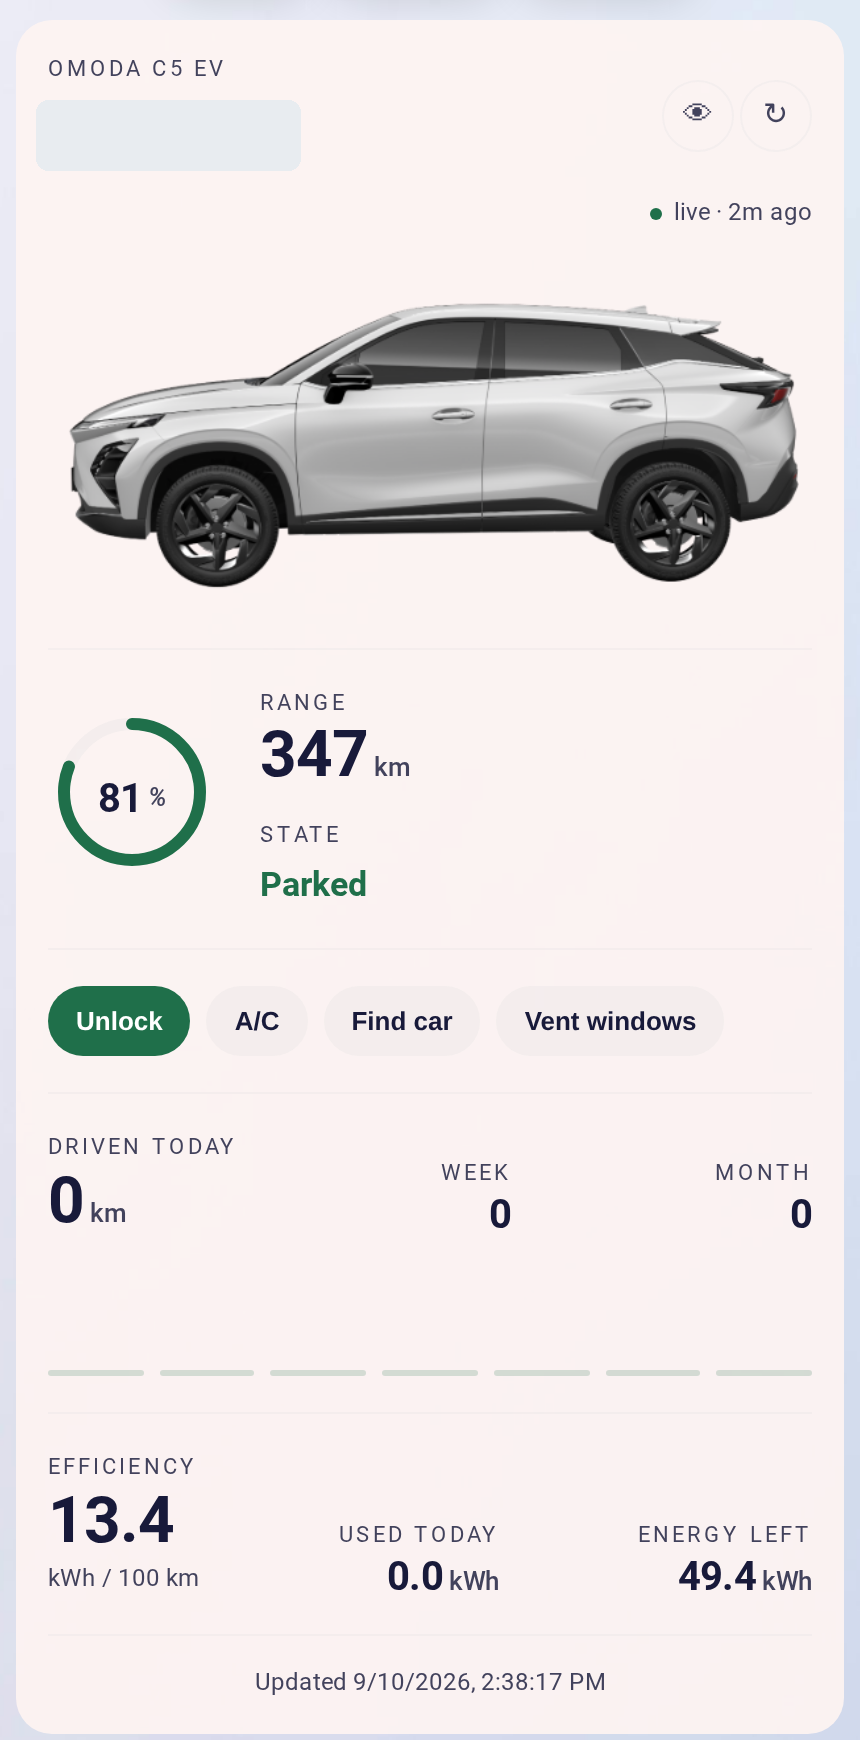
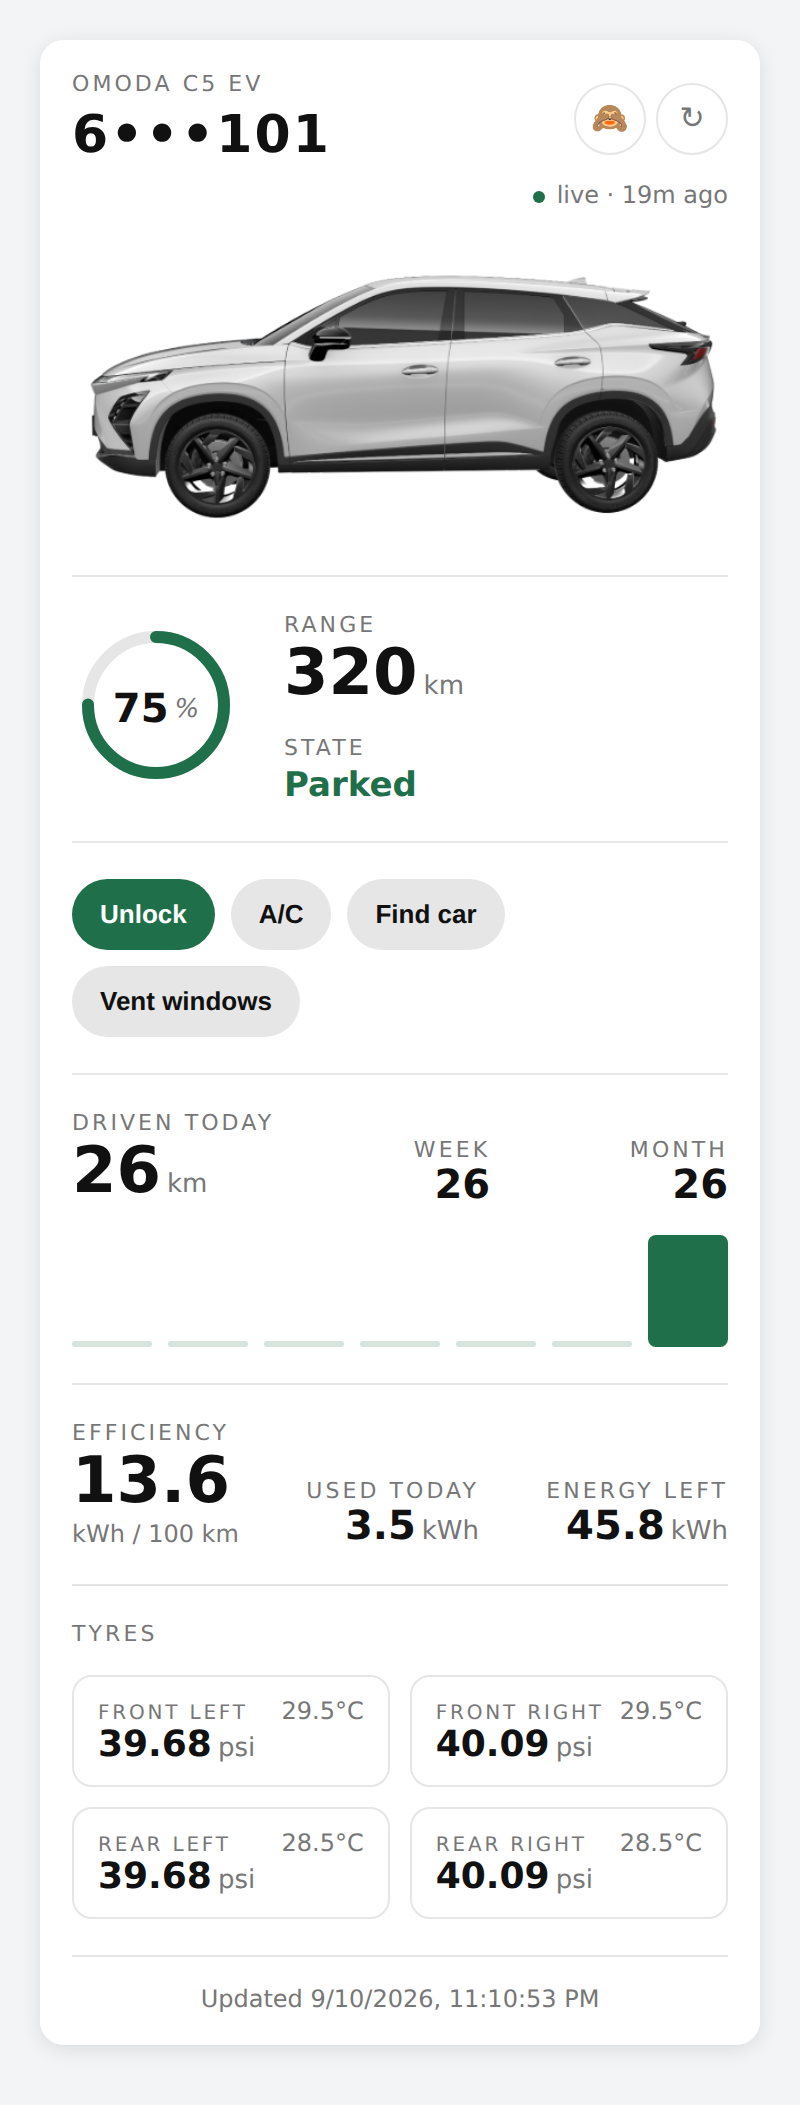
docs: v0.0.11 — refresh card screenshot, stop tyre labels wrapping
The README screenshot predated the tyre grid. Regenerated it by rendering the
built card headlessly against the real entity/device registry and states from
a live instance, so the figures are genuine and the plate stays masked.

Rendering it surfaced a wrap: 'FRONT RIGHT' broke onto two lines and made that
cell taller than its neighbours. Labels and the temperature readout are now
nowrap.

diff --git a/custom_components/carlinko/www/carlinko-card.js b/custom_components/carlinko/www/carlinko-card.js
@@ -132,9 +132,9 @@ section { border-top: 1px solid var(--divider-color, #e6e6e6); padding: 18px 0; 
   border: 1px solid var(--divider-color, #e6e6e6); border-radius: 10px; padding: 10px 12px;
   display: flex; align-items: baseline; justify-content: space-between; gap: 8px;
 }
-.tyre .label { font-size: 10px; }
+.tyre .label { font-size: 10px; white-space: nowrap; }
 .tyre .v { font-size: 18px; font-weight: 700; }
-.tyre .t { font-size: 12px; color: var(--secondary-text-color, #777); }
+.tyre .t { font-size: 12px; color: var(--secondary-text-color, #777); white-space: nowrap; }
 .tyre.low { border-color: var(--error-color, #db4437); }
 .tyre.low .v { color: var(--error-color, #db4437); }
 .tyre.warn { border-color: var(--warning-color, #ffa600); }

diff --git a/src/carlinko-card.ts b/src/carlinko-card.ts
@@ -74,9 +74,9 @@ section { border-top: 1px solid var(--divider-color, #e6e6e6); padding: 18px 0; 
   border: 1px solid var(--divider-color, #e6e6e6); border-radius: 10px; padding: 10px 12px;
   display: flex; align-items: baseline; justify-content: space-between; gap: 8px;
 }
-.tyre .label { font-size: 10px; }
+.tyre .label { font-size: 10px; white-space: nowrap; }
 .tyre .v { font-size: 18px; font-weight: 700; }
-.tyre .t { font-size: 12px; color: var(--secondary-text-color, #777); }
+.tyre .t { font-size: 12px; color: var(--secondary-text-color, #777); white-space: nowrap; }
 .tyre.low { border-color: var(--error-color, #db4437); }
 .tyre.low .v { color: var(--error-color, #db4437); }
 .tyre.warn { border-color: var(--warning-color, #ffa600); }

diff --git a/README.md b/README.md
@@ -52,7 +52,7 @@ Each vehicle on the account becomes a device named after its licence plate.
 
 ## Lovelace card
 
-Add the resource once: Settings → Dashboards → ⋮ → Resources → `/carlinko/carlinko-card.js?v=0.0.10`, type **JavaScript module**. Then:
+Add the resource once: Settings → Dashboards → ⋮ → Resources → `/carlinko/carlinko-card.js?v=0.0.11`, type **JavaScript module**. Then:
 
 ```yaml
 type: custom:carlinko-card

diff --git a/docs/card.md b/docs/card.md
@@ -19,7 +19,7 @@ Then reload the browser (Ctrl+Shift+R).
 ### Cache busting
 
 Browsers cache Lovelace resources aggressively. After updating the integration, edit the
-resource URL to include the version, e.g. `/carlinko/carlinko-card.js?v=0.0.10`, and reload.
+resource URL to include the version, e.g. `/carlinko/carlinko-card.js?v=0.0.11`, and reload.
 
 ## YAML example
 
